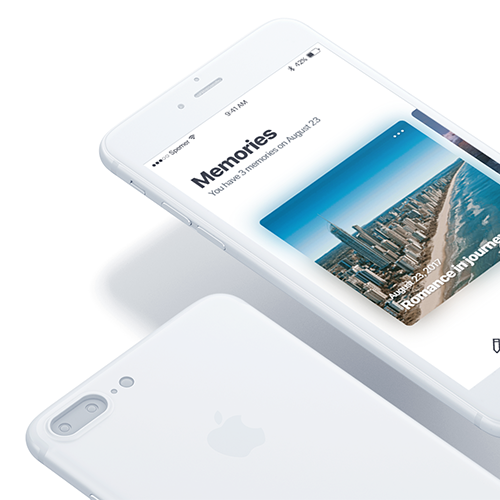
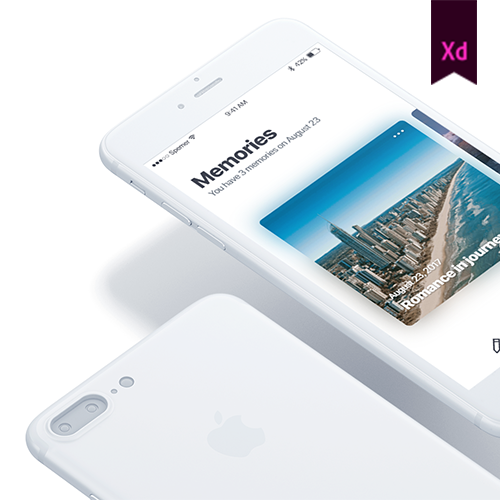
Fix Img

Changed region(s): [[0.84, 0.0, 0.96, 0.18]]

diff --git a/public/portfolio/memory-record-application-ui-design.html b/public/portfolio/memory-record-application-ui-design.html
@@ -103,6 +103,12 @@
 					
 
 					<img src="../img/works/memoree/8.png" alt="Example screens" title="Example screens" class="atechImg" />
+						<br /><br /><br /><br /><br />
+
+					<figure class="articleImg35 articleFig articleImgSize">
+						<img src="../img/works/memoree/featured.PNG" alt="Adobe XD featured" title="Adobe XD featured" style="max-width: 350px;" />
+						<figcaption>Featured from Adobe XD(September 6, 2017)</figcaption>
+					</figure>
 
 
 					<br /><br /><br />
